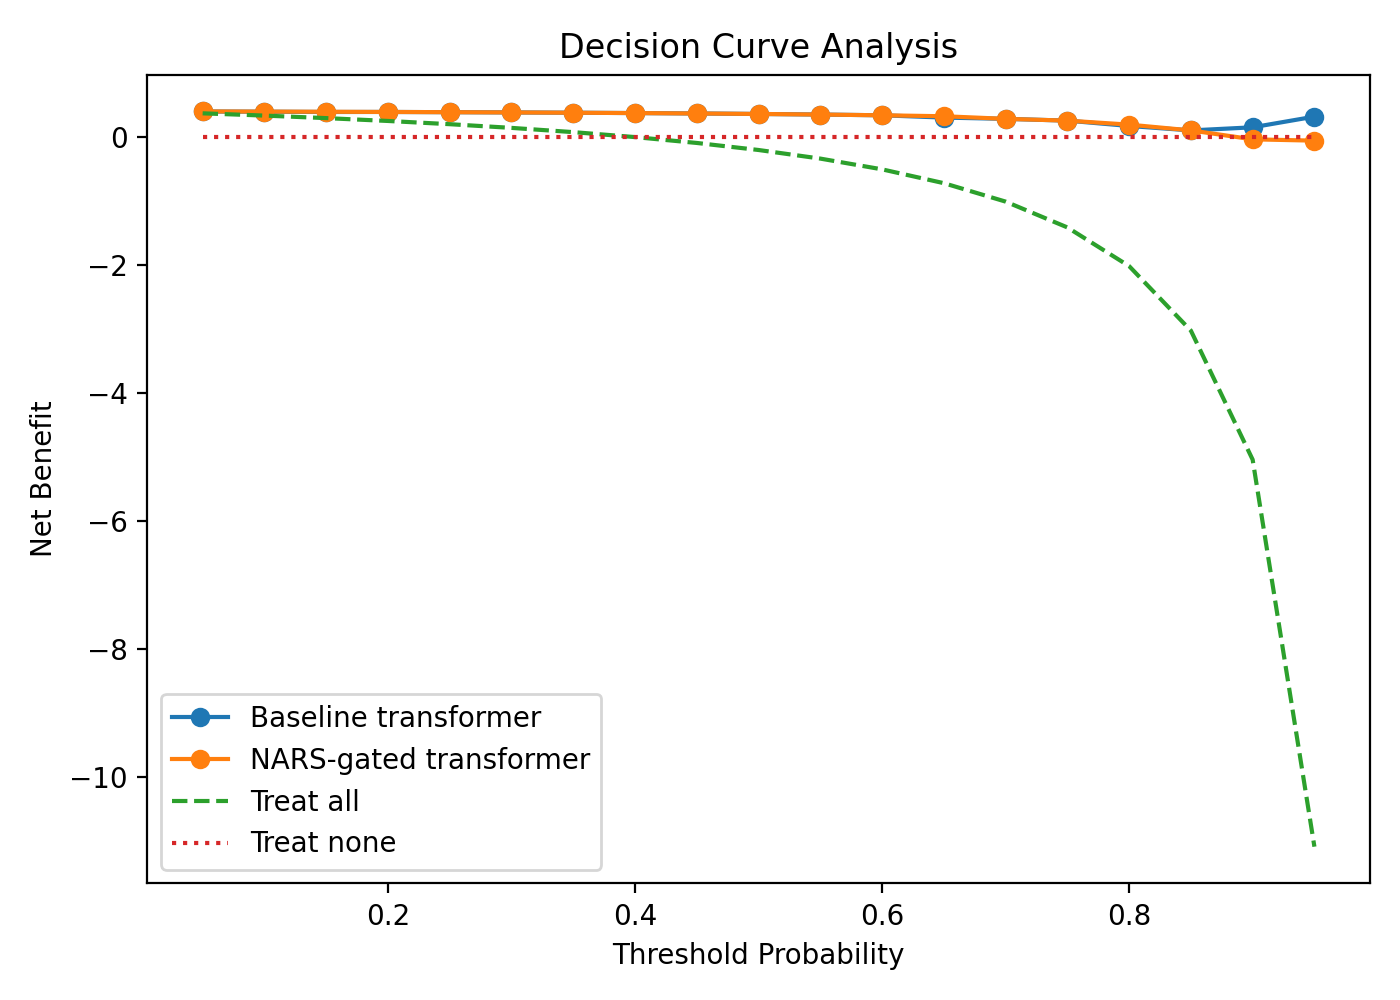
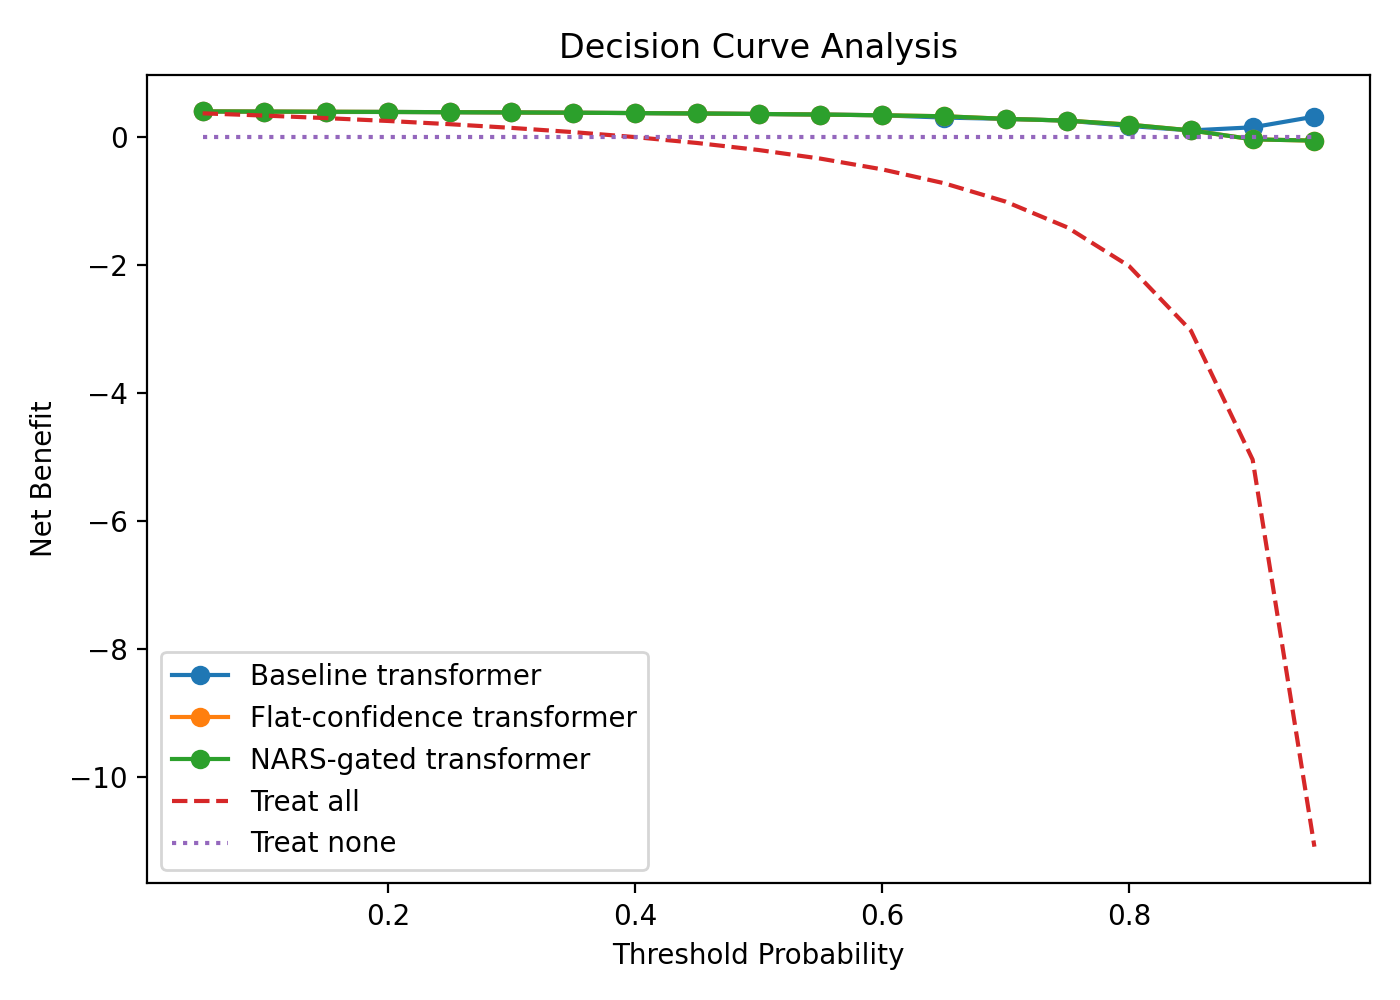
add flat confidence baseline

diff --git a/paper/main.tex b/paper/main.tex
@@ -349,7 +349,7 @@ Gain $g$ & $0.7173$ & $g=c_{rev}^{\gamma}$ with $\gamma=2$ \\
 \end{tabular}
 \end{table}
 
-We also evaluated the implemented pipeline on a 149-row MTC dataset using a study-aware split with 80 training cases, 21 validation cases, and 48 held-out test cases. The reported run uses the default experimental setting of 50 Monte Carlo dropout passes with $\gamma=2$, together with a transformer architecture of $d_{model}=64$, 4 heads, and 2 encoder layers. Table~\ref{tab:empirical_results} summarizes the held-out performance of that configuration together with bootstrap confidence intervals for AUC and expected calibration error (ECE) from a 10-bin equal-frequency reliability diagram. In addition, a gamma ablation was run over $\gamma\in\{0.25,0.5,1,2,4\}$ using the same trained model and held-out split to examine how the confidence gate changes the final outputs.
+We also evaluated the implemented pipeline on a 149-row MTC dataset using a study-aware split with 80 training cases, 21 validation cases, and 48 held-out test cases. The reported run uses the default experimental setting of 50 Monte Carlo dropout passes with $\gamma=2$, together with a transformer architecture of $d_{model}=64$, 4 heads, and 2 encoder layers. Table~\ref{tab:empirical_results} summarizes the held-out performance of that configuration together with bootstrap confidence intervals for AUC and expected calibration error (ECE) from a 10-bin equal-frequency reliability diagram. To isolate whether the variance-to-confidence mapping itself matters, we also evaluated a flat-confidence control that uses the same gated architecture but assigns a constant feature confidence $c=0.5$ before attention renormalization. In addition, a gamma ablation was run over $\gamma\in\{0.25,0.5,1,2,4\}$ using the same trained model and held-out split to examine how the confidence gate changes the final outputs.
 
 \begin{table}[H]
 \caption{Empirical test-set performance on the 48-case held-out study-aware split for MTC diagnosis.}
@@ -360,12 +360,13 @@ We also evaluated the implemented pipeline on a 149-row MTC dataset using a stud
 Variant & AUC [95\% CI] & Brier score & ECE & Accuracy \\
 \midrule
 Baseline transformer & 0.9873 [0.9590, 1.0000] & 0.0412 & 0.0476 & 0.9583 \\
+Flat-confidence transformer & 0.9891 [0.9637, 1.0000] & 0.0413 & 0.0498 & 0.9583 \\
 NARS-gated transformer & 0.9891 [0.9637, 1.0000] & 0.0411 & 0.0496 & 0.9583 \\
 \bottomrule
 \end{tabular}
 \end{table}
 
-At the operating threshold of 0.5, both models achieved recall 1.0 on the held-out set, with 27 true negatives, 2 false positives, 0 false negatives, and 19 true positives. The NARS-guided model therefore did not change the hard classification decisions in this run, but it slightly improved ranking performance as reflected in the AUC increase from 0.9873 to 0.9891, an absolute gain of $+0.0018$. However, the bootstrap intervals in Table~\ref{tab:empirical_results} overlap, so the observed AUC difference should be treated as uncertain rather than as a clearly separated performance gain on this test split. This overlap is expected: the approximate standard error of AUC for 19 positive and 29 negative test cases is about 0.03, so gaps smaller than that are undetectable at the 95\% level on this split.
+At the operating threshold of 0.5, all three models achieved recall 1.0 on the held-out set, with 27 true negatives, 2 false positives, 0 false negatives, and 19 true positives. Relative to the baseline transformer, both the flat-confidence and NARS-gated variants improved AUC from 0.9873 to 0.9891, an absolute gain of $+0.0018$, without changing hard classification decisions. However, the bootstrap intervals in Table~\ref{tab:empirical_results} overlap, so the observed AUC difference should be treated as uncertain rather than as a clearly separated performance gain on this test split. This overlap is expected: the approximate standard error of AUC for 19 positive and 29 negative test cases is about 0.03, so gaps smaller than that are undetectable at the 95\% level on this split.
 
 \begin{table}[H]
 \caption{Gamma ablation on the 48-case held-out test split.}
@@ -388,7 +389,7 @@ The gamma ablation in Table~\ref{tab:gamma_ablation} shows that, on this test sp
 
 We also computed decision-curve analysis over threshold probabilities from 0.05 to 0.95 to assess clinical utility in terms of net benefit. Across a broad middle range of thresholds, both learned models outperform the treat-all and treat-none strategies. The NARS-gated model matches the baseline at many thresholds and exceeds it slightly at several decision points, including 0.65 and 0.80. At threshold 0.65, for example, net benefit increases from 0.2976 to 0.3185, corresponding to roughly 2.08 additional true-positive-equivalent decisions per 100 patients after accounting for threshold-weighted false positives. A similar gain of about 2.08 per 100 patients appears at threshold 0.80.
 
-Calibration was assessed with a reliability diagram using 10 equal-frequency bins and by expected calibration error. On this split, ECE was 0.0476 for the baseline model and 0.0496 for the NARS-gated model. Thus, while the gated model improved Brier score slightly, it did not improve ECE on the same held-out set, indicating a mixed calibration result rather than a uniform gain.
+Calibration was assessed with a reliability diagram using 10 equal-frequency bins and by expected calibration error. On this split, ECE was 0.0476 for the baseline model, 0.0498 for the flat-confidence control, and 0.0496 for the NARS-gated model. Thus, while the gated model improved Brier score slightly, it did not improve ECE relative to the baseline. However, compared with the flat-confidence control, the variance-based NARS mapping was marginally better on both Brier score and ECE, suggesting that the variance-to-confidence step contributes a small calibration-oriented benefit even though it does not add further AUC lift on this split.
 
 \section{Analysis}
 \label{sec:analysis}
@@ -397,13 +398,13 @@ Eq.~\eqref{eq:neural_to_nars} makes confidence decrease as predictive variance i
 
 Eq.~\eqref{eq:attention_update} enforces two invariants. It preserves $\sum_i \alpha_i^{\text{new}} = 1$. It sets $\alpha_i^{\text{new}} = 0$ when $c_i = 0$.
 
-The empirical comparison in Table~\ref{tab:empirical_results} suggests that the direction of the AUC change is consistent with the method's intent. Because accuracy and recall remained unchanged while AUC increased slightly, the main impact of NARS guidance in this run is better ordering of cases by predicted risk rather than a change in thresholded decisions. In a clinical triage setting, even a small ranking improvement can matter because it can move suspicious cases higher in the review queue; however, the overlapping bootstrap intervals indicate that this cannot be treated as a confirmed performance gain on the current test split.
+The empirical comparison in Table~\ref{tab:empirical_results} suggests that the direction of the AUC change is consistent with the method's intent, but the flat-confidence control also matters for interpretation. Because accuracy and recall remained unchanged while AUC increased slightly, the main impact of the gated variants in this run is better ordering of cases by predicted risk rather than a change in thresholded decisions. In a clinical triage setting, even a small ranking improvement can matter because it can move suspicious cases higher in the review queue; however, the overlapping bootstrap intervals indicate that this cannot be treated as a confirmed performance gain on the current test split. Moreover, because the flat-confidence and NARS-gated variants achieved the same AUC here, the variance-to-confidence mapping cannot yet be claimed to improve ranking beyond generic attention reweighting on this cohort.
 
 The same experiment also shows a cautionary point. The Brier score changed only slightly, from 0.0412 to 0.0411 in the selected configuration, so the calibration effect is minor compared with the ranking effect. At the same time, the gamma ablation indicates that stronger gating can improve Brier score modestly even when AUC and accuracy stay fixed, whereas the equal-frequency ECE estimate slightly worsened from 0.0476 to 0.0496. This trade-off is consistent with the idea that confidence-based reweighting may help prioritize cases and smooth probabilities without necessarily improving every calibration summary on a small held-out split.
 
 The decision-curve analysis sharpens that interpretation. The gain from NARS guidance is better described as local clinical-utility improvement at selected thresholds than as a uniform improvement across all decision settings. The high-threshold tail is unstable on this 48-case test set, with the NARS-gated curve dropping below baseline at 0.90 and 0.95, so those regions should not be over-interpreted. Taken together, the ranking, calibration, and decision-utility results support feasibility and selective benefit, but not a blanket claim of superiority across all threshold choices.
 
-Compared with simply using MC dropout output as a soft confidence signal, the present interface adds an explicit revision step that can combine neural and symbolic evidence in a shared $(f,c)$ space before attention is updated. More directly, simply scaling the logits by raw MC-dropout confidence would not provide the revision step that combines neural and symbolic support in a shared evidential space. That distinction is what Table~\ref{tab:proposition_extraction} makes concrete. This differs from approaches such as SHEPHERD and other knowledge-graph-augmented predictors \cite{karjalainen2025, jiang2024}, which enrich representations or retrieval but do not expose a NARS-style evidential confidence variable that can be revised and then fed back into attention. The contribution here is therefore not a larger knowledge graph or a different uncertainty estimator by itself, but a formal rule for turning uncertainty into revisable symbolic support and then reusing that support as a control signal in inference.
+Compared with simply using MC dropout output as a soft confidence signal, the present interface adds an explicit revision step that can combine neural and symbolic evidence in a shared $(f,c)$ space before attention is updated. More directly, simply scaling the logits by raw MC-dropout confidence would not provide the revision step that combines neural and symbolic support in a shared evidential space. That distinction is what Table~\ref{tab:proposition_extraction} makes concrete. The flat-confidence control in Table~\ref{tab:empirical_results} sharpens this point: constant-confidence gating can match the observed AUC gain on this split, but it does not capture the same variance-conditioned evidential semantics and is slightly worse on Brier score and ECE. This differs from approaches such as SHEPHERD and other knowledge-graph-augmented predictors \cite{karjalainen2025, jiang2024}, which enrich representations or retrieval but do not expose a NARS-style evidential confidence variable that can be revised and then fed back into attention. The contribution here is therefore not a larger knowledge graph or a different uncertainty estimator by itself, but a formal rule for turning uncertainty into revisable symbolic support and then reusing that support as a control signal in inference.
 
 The interface can fail in three cases. First, the variance estimator can misrepresent epistemic uncertainty. MC dropout can under-estimate uncertainty under dataset shift \cite{ovadia2019}; for example, if a new cohort has a different prevalence of hereditary RET-associated presentations, $c$ may be inflated and the attention gate may over-weight uncertain predictions. Second, proposition extraction can misalign neural features and symbolic terms; for example, if a mildly elevated calcitonin measurement is incorrectly mapped to the strong proposition calcitonin\_high, the wrong $c_i$ will be coupled to the attention update. Third, the knowledge base can contain conflicting or weak rules; for example, one rule may strongly favor MTC because of hereditary context while another weak imaging rule suppresses suspicion, producing a diluted revised confidence that downweights all related features.
 

diff --git a/src/pipeline.py b/src/pipeline.py
@@ -242,15 +242,26 @@ def _bootstrap_auc_intervals(
 
     baseline_interval = intervals["baseline"]
     gated_interval = intervals["nars_gated"]
-    overlap = not (
+    flat_interval = intervals["flat_confidence"]
+    baseline_vs_gated_overlap = not (
         baseline_interval["auc_ci_95_upper"] < gated_interval["auc_ci_95_lower"]
         or gated_interval["auc_ci_95_upper"] < baseline_interval["auc_ci_95_lower"]
     )
+    flat_vs_gated_overlap = not (
+        flat_interval["auc_ci_95_upper"] < gated_interval["auc_ci_95_lower"]
+        or gated_interval["auc_ci_95_upper"] < flat_interval["auc_ci_95_lower"]
+    )
     intervals["comparison"] = {
-        "ci_overlap": overlap,
-        "interpretation": (
+        "baseline_vs_nars_gated_ci_overlap": baseline_vs_gated_overlap,
+        "flat_confidence_vs_nars_gated_ci_overlap": flat_vs_gated_overlap,
+        "baseline_vs_nars_gated_interpretation": (
             "The 95% bootstrap AUC confidence intervals overlap, so the observed difference should be treated as uncertain."
-            if overlap
+            if baseline_vs_gated_overlap
+            else "The 95% bootstrap AUC confidence intervals do not overlap, so the observed difference is likely real on this test split."
+        ),
+        "flat_confidence_vs_nars_gated_interpretation": (
+            "The 95% bootstrap AUC confidence intervals overlap, so the observed difference should be treated as uncertain."
+            if flat_vs_gated_overlap
             else "The 95% bootstrap AUC confidence intervals do not overlap, so the observed difference is likely real on this test split."
         ),
     }
@@ -260,14 +271,17 @@ def _bootstrap_auc_intervals(
 def _save_roc_plot(
     y_true: np.ndarray,
     baseline_probabilities: np.ndarray,
+    flat_probabilities: np.ndarray,
     gated_probabilities: np.ndarray,
     output_path: Path,
 ) -> None:
     baseline_fpr, baseline_tpr, _ = roc_curve(y_true, baseline_probabilities)
+    flat_fpr, flat_tpr, _ = roc_curve(y_true, flat_probabilities)
     gated_fpr, gated_tpr, _ = roc_curve(y_true, gated_probabilities)
 
     plt.figure(figsize=(7, 5))
     plt.plot(baseline_fpr, baseline_tpr, label="Baseline")
+    plt.plot(flat_fpr, flat_tpr, label="Flat-confidence")
     plt.plot(gated_fpr, gated_tpr, label="NARS-gated")
     plt.plot([0, 1], [0, 1], linestyle="--", color="gray", linewidth=1)
     plt.xlabel("False Positive Rate")
@@ -282,12 +296,14 @@ def _save_roc_plot(
 def _save_calibration_plot(
     y_true: np.ndarray,
     baseline_probabilities: np.ndarray,
+    flat_probabilities: np.ndarray,
     gated_probabilities: np.ndarray,
     output_path: Path,
 ) -> None:
     plt.figure(figsize=(7, 5))
     for label, probabilities in (
         ("Baseline", baseline_probabilities),
+        ("Flat-confidence", flat_probabilities),
         ("NARS-gated", gated_probabilities),
     ):
         reliability = _build_reliability_frame(y_true, probabilities, n_bins=10)
@@ -347,6 +363,7 @@ def _compute_net_benefit(y_true: np.ndarray, probabilities: np.ndarray, threshol
 def _build_decision_curve_frame(
     y_true: np.ndarray,
     baseline_probabilities: np.ndarray,
+    flat_probabilities: np.ndarray,
     gated_probabilities: np.ndarray,
 ) -> pd.DataFrame:
     thresholds = np.arange(0.05, 1.0, 0.05, dtype=np.float64)
@@ -359,6 +376,7 @@ def _build_decision_curve_frame(
             {
                 "threshold": float(threshold),
                 "baseline_net_benefit": _compute_net_benefit(y_true, baseline_probabilities, float(threshold)),
+                "flat_confidence_net_benefit": _compute_net_benefit(y_true, flat_probabilities, float(threshold)),
                 "nars_gated_net_benefit": _compute_net_benefit(y_true, gated_probabilities, float(threshold)),
                 "treat_all_net_benefit": float(treat_all_net_benefit),
                 "treat_none_net_benefit": 0.0,
@@ -375,6 +393,12 @@ def _save_decision_curve_plot(decision_curve_frame: pd.DataFrame, output_path: P
         decision_curve_frame["baseline_net_benefit"],
         marker="o",
         label="Baseline transformer",
+    )
+    plt.plot(
+        decision_curve_frame["threshold"],
+        decision_curve_frame["flat_confidence_net_benefit"],
+        marker="o",
+        label="Flat-confidence transformer",
     )
     plt.plot(
         decision_curve_frame["threshold"],
@@ -520,6 +544,17 @@ def run_pipeline(config: PipelineConfig) -> dict[str, Any]:
         feature_confidence,
         gamma=config.gamma,
     )
+    flat_feature_confidence = np.full_like(feature_confidence, 0.5, dtype=np.float64)
+    flat_attention = apply_confidence_gate(
+        summary.attention_mean,
+        flat_feature_confidence,
+        gamma=config.gamma,
+    )
+    flat_logits = summary.cls_logit_mean + np.sum(
+        flat_attention * summary.token_score_mean,
+        axis=1,
+    )
+    flat_probabilities = _sigmoid(flat_logits)
     gated_logits = summary.cls_logit_mean + np.sum(
         gated_attention * summary.token_score_mean,
         axis=1,
@@ -528,10 +563,12 @@ def run_pipeline(config: PipelineConfig) -> dict[str, Any]:
 
     y_true = summary.labels.astype(int)
     baseline_reliability = _build_reliability_frame(y_true, summary.probabilities_mean, n_bins=10)
+    flat_reliability = _build_reliability_frame(y_true, flat_probabilities, n_bins=10)
     gated_reliability = _build_reliability_frame(y_true, gated_probabilities, n_bins=10)
     reliability_frame = pd.concat(
         [
             baseline_reliability.assign(variant="baseline"),
+            flat_reliability.assign(variant="flat_confidence"),
             gated_reliability.assign(variant="nars_gated"),
         ],
         ignore_index=True,
@@ -540,6 +577,7 @@ def run_pipeline(config: PipelineConfig) -> dict[str, Any]:
         y_true=y_true,
         probability_map={
             "baseline": summary.probabilities_mean,
+            "flat_confidence": flat_probabilities,
             "nars_gated": gated_probabilities,
         },
         iterations=1000,
@@ -552,6 +590,12 @@ def run_pipeline(config: PipelineConfig) -> dict[str, Any]:
                 **_compute_metrics(y_true, summary.probabilities_mean),
                 "auc_ci_95_lower": auc_bootstrap["baseline"]["auc_ci_95_lower"],
                 "auc_ci_95_upper": auc_bootstrap["baseline"]["auc_ci_95_upper"],
+            },
+            {
+                "variant": "flat_confidence",
+                **_compute_metrics(y_true, flat_probabilities),
+                "auc_ci_95_lower": auc_bootstrap["flat_confidence"]["auc_ci_95_lower"],
+                "auc_ci_95_upper": auc_bootstrap["flat_confidence"]["auc_ci_95_upper"],
             },
             {
                 "variant": "nars_gated",
@@ -593,6 +637,7 @@ def run_pipeline(config: PipelineConfig) -> dict[str, Any]:
     decision_curve_frame = _build_decision_curve_frame(
         y_true=y_true,
         baseline_probabilities=summary.probabilities_mean,
+        flat_probabilities=flat_probabilities,
         gated_probabilities=gated_probabilities,
     )
     decision_curve_frame.to_csv(output_dirs["metrics"] / "decision_curve.csv", index=False)
@@ -601,12 +646,14 @@ def run_pipeline(config: PipelineConfig) -> dict[str, Any]:
     _save_roc_plot(
         y_true,
         summary.probabilities_mean,
+        flat_probabilities,
         gated_probabilities,
         output_dirs["charts"] / "roc_curve.png",
     )
     _save_calibration_plot(
         y_true,
         summary.probabilities_mean,
+        flat_probabilities,
         gated_probabilities,
         output_dirs["charts"] / "calibration_curve.png",
     )

diff --git a/README.md b/README.md
@@ -74,6 +74,7 @@ Saved metrics:
 | Variant | AUC | Brier Score | ECE | Accuracy | Recall | Precision | F1 |
 | --- | ---: | ---: | ---: | ---: | ---: | ---: | ---: |
 | Baseline Transformer | 0.9873 | 0.04121 | 0.04758 | 95.83% | 100.00% | 90.48% | 0.9500 |
+| Flat-Confidence Transformer | 0.9891 | 0.04127 | 0.04985 | 95.83% | 100.00% | 90.48% | 0.9500 |
 | NARS-Gated Transformer | 0.9891 | 0.04115 | 0.04962 | 95.83% | 100.00% | 90.48% | 0.9500 |
 
 ### Bootstrap AUC Confidence Intervals
@@ -83,24 +84,26 @@ Using `1000` bootstrap resamples of the `48` held-out test cases, the saved run 
 | Variant | AUC | 95% Bootstrap CI |
 | --- | ---: | ---: |
 | Baseline Transformer | 0.9873 | 0.9590 to 1.0000 |
+| Flat-Confidence Transformer | 0.9891 | 0.9637 to 1.0000 |
 | NARS-Gated Transformer | 0.9891 | 0.9637 to 1.0000 |
 
 ### Interpretation
 
-The main empirical effect is a **small ranking improvement** from the NARS-guided attention layer: AUC rises from `0.9873` to `0.9891`, and the Brier score improves slightly from `0.04121` to `0.04115`. The thresholded predictions on this held-out split remain the same, but the important contribution is that NGTA makes epistemic uncertainty explicit through NARS confidence and uses that confidence to produce slightly better risk ordering.
+The main empirical effect is a **small ranking improvement** over the baseline transformer: AUC rises from `0.9873` to `0.9891`, while thresholded predictions on this held-out split remain the same. Adding the flat-confidence control makes the interpretation sharper: the flat-confidence and NARS-gated variants have the same AUC on this split, so the variance-to-confidence mapping does not produce an additional ranking lift beyond generic attention reweighting here. The important contribution is therefore a more explicit uncertainty representation, with a slight Brier/ECE advantage for the variance-based NARS gate over the flat-confidence control.
 
 The bootstrap intervals also matter for interpretation. The baseline interval (`0.9590` to `1.0000`) and the NARS-gated interval (`0.9637` to `1.0000`) **do overlap**, so this run should be described as showing an observed improvement, but not a clearly separated one by the bootstrap-CI check. In other words, the result is promising but still uncertain on a `48`-case test set.
 
 ### Calibration Reliability
 
-The calibration figure is now a reliability diagram built with `10` equal-frequency bins, with the baseline and NARS-gated variants plotted on the same axes. The underlying bucket summaries are exported to [results/metrics/calibration_reliability.csv](results/metrics/calibration_reliability.csv), and the figure remains [charts/calibration_curve.png](charts/calibration_curve.png).
+The calibration figure is now a reliability diagram built with `10` equal-frequency bins, with the baseline, flat-confidence, and NARS-gated variants plotted on the same axes. The underlying bucket summaries are exported to [results/metrics/calibration_reliability.csv](results/metrics/calibration_reliability.csv), and the figure remains [charts/calibration_curve.png](charts/calibration_curve.png).
 
 The saved ECE values are:
 
 - Baseline: `0.04758`
+- Flat-confidence: `0.04985`
 - NARS-gated: `0.04962`
 
-On this split, the NARS-gated model improves Brier score slightly but has a slightly worse ECE than the baseline. That means the calibration result is mixed rather than uniformly better for the gated model.
+On this split, the NARS-gated model improves Brier score slightly but has a slightly worse ECE than the baseline. Compared with the flat-confidence control, however, the variance-based NARS gate is marginally better on both Brier (`0.04115` vs `0.04127`) and ECE (`0.04962` vs `0.04985`). That means the calibration result is mixed overall, but the explicit variance-to-confidence mapping does slightly outperform a constant-confidence gating control.
 
 ### Gamma Ablation
 
